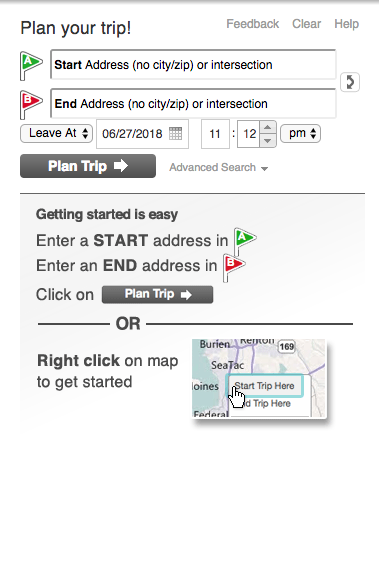
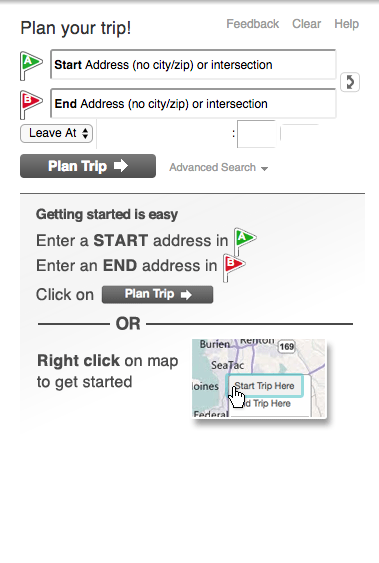
fixed bug where master screenshot wasn't hiding elements

Changed region(s): [[0.2612, 0.2114, 0.4934, 0.2718], [0.6385, 0.2114, 0.8417, 0.2718], [0.5224, 0.2114, 0.6095, 0.2718]]

diff --git a/build/Index.html b/build/Index.html
@@ -362,19 +362,63 @@
                             <span class="path">TripPlannerContext::httpsSoundtransitOrgTripplannerIsNavigatedTo()</span>
                         </div>
                     </li>
-                    <li class="failed">
+                    <li class="passed">
                         <div class="step">
                             <span class="keyword">Then </span>
                             <span class="text">the planner panel should look the same as last time </span>
                             <span class="path">TripPlannerContext::thePlannerPanelShouldLookTheSameAsLastTime()</span>
                         </div>
-                        <pre class="backtrace">Failed asserting that false is true.</pre>screenshot: /Users/jameskarasim/Downloads/installed/repositories/behattest/results/html/assets/screenshots/chrome/chrome/TripPlannerPage/plannerpanelvisualregression.png does not exist
                     </li>
                 </ol>
             </div>
-            <div class="featureResult failed">Feature has failed
-                <span>Scenarios passed : 0%,
-                Scenarios failed : 100%</span>
+            <div class="featureResult success">Feature has success
+            </div>
+        </div>
+        <div class="suite">Suite : firefox</div>
+        <div class="feature">
+            <h2>
+                <span id="feat2" class="keyword"> Feature: </span>
+                <span class="title">Trip Planner Page</span>
+            </h2>
+            <p>The sound transit trip planner page at https://soundtransit.org/tripplanner</p>
+            <ul class="tags">
+                <li>@tripplanner</li>
+            </ul>
+            <div class="scenario">
+                <ul class="tags">
+                    <li>@visualregression</li>
+                    <li>@vr</li>
+                    <li>@panel</li>
+                </ul>
+                <h3>
+                    <span class="keyword"> Scenario: </span>
+                    <span class="title">planner panel visual regression</span>
+                </h3>
+                <ol>
+                    <li class="passed">
+                        <div class="step">
+                            <span class="keyword">Given </span>
+                            <span class="text">an open browser </span>
+                            <span class="path">CommonContext::anOpenBrowser()</span>
+                        </div>
+                    </li>
+                    <li class="passed">
+                        <div class="step">
+                            <span class="keyword">And </span>
+                            <span class="text">https://soundtransit.org/tripplanner is navigated to </span>
+                            <span class="path">TripPlannerContext::httpsSoundtransitOrgTripplannerIsNavigatedTo()</span>
+                        </div>
+                    </li>
+                    <li class="passed">
+                        <div class="step">
+                            <span class="keyword">Then </span>
+                            <span class="text">the planner panel should look the same as last time </span>
+                            <span class="path">TripPlannerContext::thePlannerPanelShouldLookTheSameAsLastTime()</span>
+                        </div>
+                    </li>
+                </ol>
+            </div>
+            <div class="featureResult success">Feature has success
             </div>
         </div><!DOCTYPE html>
 <html lang="en">
@@ -475,7 +519,7 @@
                             <tr>
                                 <th>Build on:</th>
                                 <td>
-                                    Thu 28 Jun 2018 09:22
+                                    Thu 28 Jun 2018 09:30
                                 </td>
                                 <td></td>
                             </tr>
@@ -495,24 +539,24 @@
                                 <td>
                                     <div class="progress progress-striped active" style="height:8px; margin:5px 0 0 0;">
 
-                                        <div id="label" class="progress-bar progress-bar-success" style="width: 0%">
-                                            <span id="label" class="sr-only">0% Passed</span>
+                                        <div id="label" class="progress-bar progress-bar-success" style="width: 100%">
+                                            <span id="label" class="sr-only">100% Passed</span>
                                         </div>
                                     </div>
                                 </td>
-                                <td>0.00%</td>
+                                <td>100.00%</td>
                             </tr>
                             <tr>
                                 <th>Failed</th>
                                 <td>
 
                                     <div class="progress progress-striped active" style="height:8px; margin:5px 0 0 0;">
-                                        <div id="label" class="progress-bar progress-bar-danger" style="width: 100%">
-                                            <span id="label" class="sr-only">100% failed</span>
+                                        <div id="label" class="progress-bar progress-bar-danger" style="width: 0%">
+                                            <span id="label" class="sr-only">0% failed</span>
                                         </div>
                                     </div>
                                 </td>
-                                <td>100.00%</td>
+                                <td>0.00%</td>
                             </tr>
                             </tbody>
                         </table>
@@ -543,20 +587,48 @@
                                                                                                                                                                                                                             
                                                                                                                                             <td>
                                     <span id="label" class="label label-default">1 features </span>
-                                    <span id="label" class="label label-success"></span>
-                                    <span id="label" class="label label-danger">1 failed</span>
+                                    <span id="label" class="label label-success">1 passed</span>
+                                    <span id="label" class="label label-danger"></span>
                                     <span id="label" class="label label-info"></span>
                                 </td>
                                 <td>
                                     <span id="label" class="label label-default">1 scenarios</span>
-                                    <span id="label" class="label label-success"></span>
-                                    <span id="label" class="label label-danger">1 failed</span>
+                                    <span id="label" class="label label-success">1 passed</span>
+                                    <span id="label" class="label label-danger"></span>
                                     <span id="label" class="label label-info"></span>
                                 </td>
                                 <td>
                                     <span id="label" class="label label-default">3 steps</span>
-                                    <span id="label" class="label label-success">2 passed</span>
-                                    <span id="label" class="label label-danger">1 failed</span>
+                                    <span id="label" class="label label-success">3 passed</span>
+                                    <span id="label" class="label label-danger"></span>
+                                    <span id="label" class="label label-info"></span>
+                                </td>
+                            </tr>
+                                                                                                                <tr>
+                                <th>
+                                    Firefox
+                                </th>
+                                                                                                            
+                                                                                                            
+                                                                                                                                                                                                                                                                                                                                                                                                                                                                                                                                                                                                                                                                                                                                                                        
+                                                                                                                                                                                                                            
+                                                                                                                                                                                                                            
+                                                                                                                                            <td>
+                                    <span id="label" class="label label-default">1 features </span>
+                                    <span id="label" class="label label-success">1 passed</span>
+                                    <span id="label" class="label label-danger"></span>
+                                    <span id="label" class="label label-info"></span>
+                                </td>
+                                <td>
+                                    <span id="label" class="label label-default">1 scenarios</span>
+                                    <span id="label" class="label label-success">1 passed</span>
+                                    <span id="label" class="label label-danger"></span>
+                                    <span id="label" class="label label-info"></span>
+                                </td>
+                                <td>
+                                    <span id="label" class="label label-default">3 steps</span>
+                                    <span id="label" class="label label-success">3 passed</span>
+                                    <span id="label" class="label label-danger"></span>
                                     <span id="label" class="label label-info"></span>
                                 </td>
                             </tr>
@@ -577,8 +649,8 @@
                                 <ol class="dd-list">
 
                                                                         <div id="collapse-feature" data-role="collapsible" data-inset="false">
-                                    <li data-role="listview" class="dd-item feature failed" data-id="feature-1">
-                                        <div class="dd-nodrag dd-failed">Feature: Trip Planner Page
+                                    <li data-role="listview" class="dd-item feature success" data-id="feature-1">
+                                        <div class="dd-nodrag dd-success">Feature: Trip Planner Page
                                                                                                                                                 <span class="pull-right label label-primary">tripplanner</span>
                                                                                                                                     </div>
 
@@ -589,8 +661,8 @@
                                                 </div>
                                             </li>
                                                                                     <div class="dd">
-                                                                                    <li class="dd-item scenario failed" data-id="scenario-1-1">
-                                                <div class="dd-nodrag dd-failed">Scenario: planner panel visual regression
+                                                                                    <li class="dd-item scenario success" data-id="scenario-1-1">
+                                                <div class="dd-nodrag dd-success">Scenario: planner panel visual regression
                                                                                                                                                                                         <span class="pull-right label label-primary">visualregression</span>
                                                                                                                                     <span class="pull-right label label-primary">vr</span>
                                                                                                                                     <span class="pull-right label label-primary">panel</span>
@@ -610,17 +682,69 @@
                                                          
                                                                                                             </li>
                                                                                                         <li class="dd-item step" data-id="step-1-1-">
-                                                        <div class="dd-nodrag dd-failed">
+                                                        <div class="dd-nodrag dd-success">
                                                             <b>Then</b> the planner panel should look the same as last time
                                                         </div>
-                                                                                                                  <ol class="dd-list">
-                                                             <li class="dd-item step-argument dd-collapsed" data-id="step-1-1--argument">
-                                                                 <div class="dd-nodrag dd-failed">
-                                                                                                                                                                                                                                                                                                                                                                                                                               <p style="padding-left:2em ; color:gray">(Failed asserting that false is true.)</p>
-                                                                                                                                                                                                         </div>
-                                                             </li>
-                                                         </ol>
-                                                        
+                                                         
+                                                                                                            </li>
+                                                                                                    </ol>
+                                            </li>
+                                                                                </div>
+                                        </ol>
+                                    </li>
+                                    </div>
+                                    
+                                </ol>
+                            </div>
+                        </div>
+                                        </div><!-- suite -->
+                                                                                <div id="suite">
+                    <div id="page-break" class="page-break"></div>
+                                            <div class="panel panel-default panel-suite">
+                            <div class="panel-heading">
+                                <h2>Firefox</h2>
+                            </div>
+                            <div class="panel-body">
+                                <ol class="dd-list">
+
+                                                                        <div id="collapse-feature" data-role="collapsible" data-inset="false">
+                                    <li data-role="listview" class="dd-item feature success" data-id="feature-2">
+                                        <div class="dd-nodrag dd-success">Feature: Trip Planner Page
+                                                                                                                                                <span class="pull-right label label-primary">tripplanner</span>
+                                                                                                                                    </div>
+
+                                        <ol class="dd-list">
+                                                                                        <li class="dd-item feature-extra" data-id="featureinfo-2">
+                                                <div class="dd-nodrag">
+                                                    <p>The sound transit trip planner page at https://soundtransit.org/tripplanner</p>
+                                                </div>
+                                            </li>
+                                                                                    <div class="dd">
+                                                                                    <li class="dd-item scenario success" data-id="scenario-2-1">
+                                                <div class="dd-nodrag dd-success">Scenario: planner panel visual regression
+                                                                                                                                                                                        <span class="pull-right label label-primary">visualregression</span>
+                                                                                                                                    <span class="pull-right label label-primary">vr</span>
+                                                                                                                                    <span class="pull-right label label-primary">panel</span>
+                                                                                                                                                                    </div>
+
+                                                <ol class="dd-list">
+                                                                                                         <li class="dd-item step" data-id="step-2-1-">
+                                                        <div class="dd-nodrag dd-success">
+                                                            <b>Given</b> an open browser
+                                                        </div>
+                                                         
+                                                                                                            </li>
+                                                                                                        <li class="dd-item step" data-id="step-2-1-">
+                                                        <div class="dd-nodrag dd-success">
+                                                            <b>And</b> https://soundtransit.org/tripplanner is navigated to
+                                                        </div>
+                                                         
+                                                                                                            </li>
+                                                                                                        <li class="dd-item step" data-id="step-2-1-">
+                                                        <div class="dd-nodrag dd-success">
+                                                            <b>Then</b> the planner panel should look the same as last time
+                                                        </div>
+                                                         
                                                                                                             </li>
                                                                                                     </ol>
                                             </li>
@@ -734,19 +858,19 @@
 </body>
 </html>
 
-        <div class="summary failed">
+        <div class="summary passed">
             <div class="counters">
                 <p class="features">
-                    1 features ( <strong class="failed">1 fail</strong> )
+                    2 features ( <strong class="passed">2 success</strong> )
                 </p>
                 <p class="scenarios">
-                    1 scenarios ( <strong class="failed">1 fail</strong> )
+                    2 scenarios ( <strong class="passed">2 success</strong> )
                 </p>
                 <p class="steps">
-                    3 steps ( <strong class="passed">2 success</strong> <strong class="failed">1 fail</strong> )
+                    6 steps ( <strong class="passed">6 success</strong> )
                 </p>
                 <p class="time">
-                0m6.97s - 12.21Mb
+                0m12.99s - 12.20Mb
                 </p>
             </div>
             <div class="switchers">

diff --git a/features/bootstrap/Utilities/Screenshot.php b/features/bootstrap/Utilities/Screenshot.php
@@ -117,7 +117,7 @@ class Screenshot {
         $master_screenshot = Screenshot::masterElementScreenshotPath($moniker);
         
         if(!file_exists($master_screenshot)) {
-            Screenshot::takeElementScreenshot($element, $moniker);
+            Screenshot::takeElementScreenshot($element, $moniker, $hiddenElements);
             print("WARN: MASTER AND TAKEN IMAGES TAKEN AT SAME TIME. RUN AGAIN FOR TRUE DIFF TEST.\n");
         }
         
